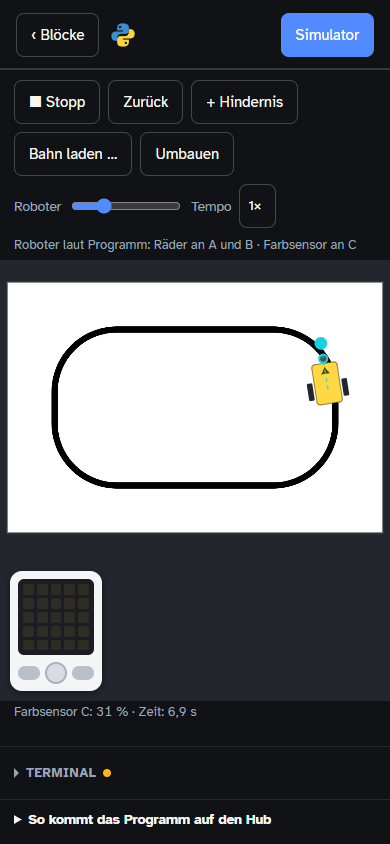
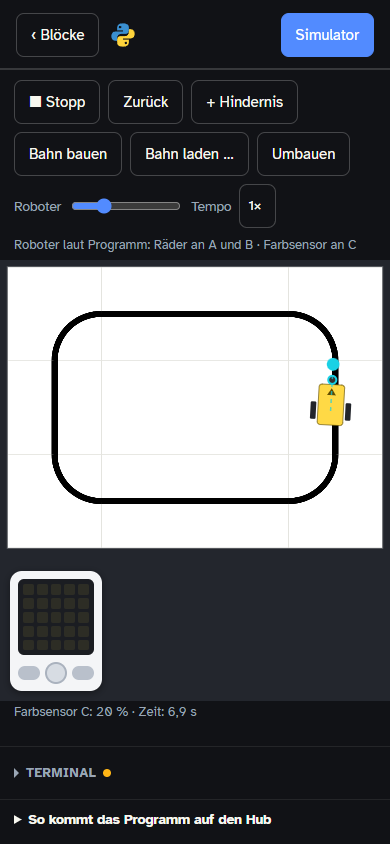
docs: Bahn bauen in README, Roadmap und Changelog, neue Bilder
Claude-Session: https://claude.ai/code/session_01PviZb3Q8FPaRScTPKtzbYN

diff --git a/README.md b/README.md
@@ -70,15 +70,21 @@ aussieht. So wird der Umstieg von Blöcken auf Python ein Schritt, den man mitle
 
 Der **Simulator** lässt das Programm auf einer Bahn im Fenster laufen. Der Roboter entsteht aus
 dem Programm – Räder, bis zu vier Farbsensoren, Abstandssensor, Kraftsensor – und fährt über
-eine Bahn mit schwarzer Linie: den mitgelieferten Rundkurs oder ein eigenes Bild. Hindernisse
-lassen sich frei setzen, der Hub zeigt Lichtmatrix und Tasten. Beim »Umbauen« lassen sich die
-Sensoren versetzen und drehen, mit Raster und Symmetrie. Mehr dazu unter
-[Programme ohne Roboter ausprobieren](#programme-ohne-roboter-ausprobieren).
+eine Bahn mit schwarzer Linie. Die Bahn baut man selbst **aus Platten wie bei RoboCup Junior
+Rescue Line**: Gerade, Kurve, Abzweig, Kreuzung, Lücke und mehr, mit grünen Punkten an den
+Kreuzungen. Hindernisse lassen sich frei setzen, der Hub zeigt Lichtmatrix und Tasten. Beim
+»Umbauen« lassen sich die Sensoren versetzen und drehen, mit Raster und Symmetrie. Mehr dazu
+unter [Programme ohne Roboter ausprobieren](#programme-ohne-roboter-ausprobieren).
 
-| Simulator | Umbauen |
+| Simulator |
+|:---:|
+| <img src="docs/bilder/simulator.png" alt="Simulator: links ein Linienfolger aus Blöcken, rechts der Roboter auf einer Bahn aus Platten mit zwei grünen Punkten – er hält vor einem Hindernis, der Kegel des Abstandssensors ist rot" width="700"> |
+| Der Linienfolger hält vor dem Hindernis; der Hub zeigt das Herz aus dem Programm. |
+
+| Bahn bauen | Umbauen |
 |:---:|:---:|
-| <img src="docs/bilder/simulator.png" alt="Simulator: links ein Linienfolger aus Blöcken, rechts der Roboter auf dem Rundkurs – er hält vor einem Hindernis, der Kegel des Abstandssensors ist rot" width="560"> | <img src="docs/bilder/simulator-umbauen.png" alt="Umbauen: der Roboter groß auf einem Raster, zwei Farbsensoren spiegelbildlich, einer mit Drehknopf" width="270"> |
-| Der Linienfolger hält vor dem Hindernis; der Hub zeigt das Herz aus dem Programm. | Sensoren versetzen und drehen. |
+| <img src="docs/bilder/bahn-bauen.png" alt="Bahn bauen: oben die Platten zur Auswahl, darunter die Bahn auf einem Raster, an zwei Abzweigen grüne Punkte" width="330"> | <img src="docs/bilder/simulator-umbauen.png" alt="Umbauen: der Roboter groß auf einem Raster, zwei Farbsensoren spiegelbildlich, einer mit Drehknopf" width="330"> |
+| Platten legen und drehen, grüne Punkte in die Ecken der Kreuzungen. | Sensoren versetzen und drehen. |
 
 ### Mit dem Hub
 
@@ -216,10 +222,18 @@ dran ist, ist markiert, Ausgaben stehen im Terminal.
   Programm abfragt, sitzt vorn (höchstens vier), dazu Abstandssensor und Kraftsensor. Wer ohne
   »Fahrbasis einrichten« zwei einzelne Motoren dreht, fährt mit diesen – der linke ist dabei
   gespiegelt eingebaut wie am üblichen Roboter.
-- **Die Bahn** ist ein Rundkurs mit schwarzer Linie; »Bahn laden …« nimmt ein eigenes Bild von
-  oben. Der Regler »Roboter« stellt ein, wie groß der Roboter darauf ist. Roboter und Hindernisse
-  lassen sich ziehen, der Roboter am Punkt vor ihm drehen, ein Hindernis an seiner Ecke größer
-  und kleiner ziehen; ein Doppelklick räumt es weg.
+- **Die Bahn** besteht aus Platten von 30 cm, wie bei RoboCup Junior Rescue Line; am Anfang liegt
+  ein Rundkurs. »Bahn bauen« zeigt die Platten zur Auswahl – Gerade, Kurve, Ecke, Abzweig,
+  Kreuzung, Lücke, Zickzack, Schlangenlinie, Kreisel, Linienende und die rote Ziellinie: Ein Tipp
+  auf ein Feld legt die gewählte Platte, noch ein Tipp dreht sie. Mit dem **grünen Punkt** tippt
+  man an einem Abzweig oder einer Kreuzung in die Ecke, in die er soll – der Farbsensor sieht dort
+  Grün und an der Ziellinie Rot. Die Bahn darf zwei bis acht Platten breit und zwei bis sechs hoch
+  sein; es gibt Vorlagen, und sie lässt sich als Datei speichern und weitergeben. Sie bleibt
+  gemerkt, samt Hindernissen und dem Platz des Roboters.
+- **Ein eigenes Bild** geht auch: »Bahn laden …« nimmt ein Foto oder eine Zeichnung von oben. Der
+  Regler »Roboter« stellt ein, wie groß der Roboter darauf ist.
+- **Roboter und Hindernisse** lassen sich ziehen, der Roboter am Punkt vor ihm drehen, ein
+  Hindernis an seiner Ecke größer und kleiner ziehen; ein Doppelklick räumt es weg.
 - **Der Hub** neben der Bahn zeigt die Lichtmatrix und das Statuslicht, seine Tasten lassen sich
   drücken. Ein Doppelklick auf ihn zeigt nur noch den Hub.
 - **Umbauen** zeigt den Roboter groß. Sensoren lassen sich versetzen und am Knopf drehen: auf
@@ -231,8 +245,9 @@ dran ist, ist markiert, Ausgaben stehen im Terminal.
 Der Simulator führt die Blöcke aus, nicht den Python-Code. Blöcke aus Erweiterungen, den
 Xbox-Controller und die LEGO-Fernbedienung überspringt er (das Steuerfeld von Blockwerk geht).
 Er taugt, um die Logik eines Programms zu prüfen – Kreuzungen, Lücken, Halt vor der Wand –, nicht
-zum Feinabstimmen eines Reglers: Der Roboter fährt ohne Anlauf und ohne Messfehler. Was noch
-fehlt, steht in der [Roadmap](ROADMAP.md) unter Meilenstein 10.
+zum Feinabstimmen eines Reglers: Der Roboter fährt ohne Anlauf und ohne Messfehler. Die Bahn ist
+flach – Rampe, Wippe und der Raum mit den Opfern fehlen. Was sonst noch fehlt, steht in der
+[Roadmap](ROADMAP.md) unter Meilenstein 10.
 
 ### Hub am USB-Kabel
 

diff --git a/ROADMAP.md b/ROADMAP.md
@@ -16,7 +16,7 @@ dabeisteht.
 | 7 | Sprachumschaltung Deutsch/Englisch | offen |
 | 8 | Hub am USB-Kabel | 🟢 läuft am echten Hub unter macOS (Beta-Firmware 4.1.0b5); Windows, Linux und Android stehen aus |
 | 9 | Erweiterungen: eigene Blöcke mit eigenem Python | 🟢 umgesetzt; ein Modul lief am echten Hub (Bluetooth und Kabel) |
-| 10 | Simulation des Roboters | 🟡 läuft im Browser: fahren, Linie, Hindernisse, Hub, Sensoren umbauen; an echten Tablets nicht erprobt, Bahn-Editor offen |
+| 10 | Simulation des Roboters | 🟡 läuft im Browser: fahren, Linie, Hindernisse, Hub, Sensoren umbauen, Bahn aus Rescue-Line-Platten bauen; an echten Tablets nicht erprobt |
 | 11 | App für Android (Tablets und Handys) | 🟡 umgesetzt; im Emulator geprüft, Bluetooth lief an einem echten Handy, das Kabel steht aus. iPad zurückgestellt |
 
 ---
@@ -394,9 +394,15 @@ ohne DOM, geprüft in `tests/sim.test.ts`.
   Farbsensor sitzt vorn (höchstens vier), dazu Abstandssensor und Kraftsensor. Ohne Fahrbasis
   sind zwei einzelne Motoren die Räder – der linke gespiegelt, wie üblich eingebaut. Weitere
   Motoren zeigen eine Scheibe mit Zeiger.
-- **Bahn und Hindernisse** (`world.ts`): Die Bahn ist ein Bild von oben, ein Rundkurs ist dabei,
-  ein eigenes Bild lässt sich laden; die Größe des Roboters darauf ist einstellbar. Reflexion und
-  Farbe liest der Sensor aus dem Bild. Hindernisse sind Rechtecke zum Setzen, Ziehen und
+- **Bahn aus Platten** (`tiles.ts`, `trackEditor.ts`): »Bahn bauen« legt die Bahn aus Platten von
+  30 cm zusammen, wie bei RoboCup Junior Rescue Line – Gerade, Kurve, Ecke, Abzweig, Kreuzung,
+  Lücke, Zickzack, Schlangenlinie, Kreisel, Linienende, rote Ziellinie. Ein Tipp legt eine Platte,
+  noch einer dreht sie; an Abzweig und Kreuzung kommen grüne Punkte in die Ecken. Zwei bis acht
+  Platten breit, zwei bis sechs hoch; Vorlagen, Speichern und Öffnen als Datei. Die Bahn bleibt
+  gemerkt, samt Hindernissen und dem Platz des Roboters.
+- **Bahn und Hindernisse** (`world.ts`): Gerechnet wird auf einem Bild der Bahn von oben – dem der
+  Platten oder einem eigenen, das sich laden lässt; die Größe des Roboters darauf ist einstellbar.
+  Reflexion und Farbe liest der Sensor aus dem Bild. Hindernisse sind Rechtecke zum Setzen, Ziehen und
   Vergrößern; der Abstandssensor sieht, was in seinem Kegel liegt, der Kraftsensor drückt am
   Hindernis oder per Knopf. Der Roboter fährt an ein Hindernis heran, nicht hinein.
 - **Ausführen** (`runner.ts`): Der Simulator läuft die Blöcke selbst ab, in simulierter Zeit –
@@ -424,8 +430,9 @@ echten Roboter verglichen.
 
 **Offen:**
 - Rampen beim Anfahren und Bremsen, Messfehler der Sensoren.
-- Bahn und Hindernisse über das Neuladen hinweg merken; eine Spur, die zeigt, wo der Roboter fuhr.
-- Bahn-Editor mit Rescue-Line-Kacheln (Stufe 2 des Entwurfs).
+- Eine Spur, die zeigt, wo der Roboter fuhr.
+- Rescue Line über die flache Bahn hinaus: Rampe, Wippe, Bodenschwellen, der Raum mit den Opfern
+  und der silberne Streifen davor.
 - Ein eigenes einklappbares Fenster statt des Platzes im Codebereich; eine Seite in der Hilfe.
 **Ursprünglicher Entwurf:**
 - Echtes Python im Browser (MicroPython als WebAssembly) mit einem nachgebauten

diff --git a/CHANGELOG.md b/CHANGELOG.md
@@ -25,10 +25,17 @@ Programmen (und einem Git-Tag wie `v0.26.0`) fasst dann zusammen, was seit dem v
     Farbsensor sitzt vorn (höchstens vier), dazu Abstandssensor und Kraftsensor. Ohne »Fahrbasis
     einrichten« sind zwei einzelne Motoren die Räder – der linke gespiegelt, wie er üblich
     eingebaut ist. Weitere Motoren zeigen eine Scheibe mit Zeiger.
-  - **Bahn und Hindernisse:** Ein Rundkurs mit schwarzer Linie ist dabei, »Bahn laden …« nimmt ein
-    eigenes Bild; wie groß der Roboter darauf ist, stellt ein Regler ein. Hindernisse lassen sich
-    setzen, ziehen und in der Größe ändern. Der Abstandssensor sieht, was in seinem Kegel liegt,
-    der Kraftsensor drückt am Hindernis oder per Knopf.
+  - **Bahn bauen, wie bei RoboCup Junior Rescue Line:** Die Bahn besteht aus Platten von 30 cm –
+    Gerade, Kurve, Ecke, Abzweig, Kreuzung, Lücke, Zickzack, Schlangenlinie, Kreisel, Linienende
+    und die rote Ziellinie. Ein Tipp auf ein Feld legt die gewählte Platte, noch ein Tipp dreht
+    sie. An Abzweig und Kreuzung kommen **grüne Punkte** in die Ecken, die der Farbsensor als Grün
+    sieht. Zwei bis acht Platten breit, zwei bis sechs hoch; es gibt Vorlagen, und die Bahn lässt
+    sich als Datei speichern und weitergeben. Am Anfang liegt ein Rundkurs.
+  - **Eigenes Bild und Hindernisse:** »Bahn laden …« nimmt stattdessen ein eigenes Bild; wie groß
+    der Roboter darauf ist, stellt ein Regler ein. Hindernisse lassen sich setzen, ziehen und in
+    der Größe ändern. Der Abstandssensor sieht, was in seinem Kegel liegt, der Kraftsensor drückt
+    am Hindernis oder per Knopf. Neben der Reflexion steht, wenn der Farbsensor Grün, Rot, Blau
+    oder Gelb sieht.
   - **Der Hub** liegt neben der Bahn: Lichtmatrix (Bild, Muster, Zahl, Text), Statuslicht und
     Tasten zum Drücken; ein Doppelklick zeigt nur noch den Hub. Der Piepton ist zu hören, das
     Steuerfeld steuert auch den simulierten Roboter, das Tempo reicht von ¼× bis 4×.
@@ -40,7 +47,8 @@ Programmen (und einem Git-Tag wie `v0.26.0`) fasst dann zusammen, was seit dem v
   - **Grenzen:** Der Simulator führt die Blöcke aus, nicht den Python-Code; Blöcke aus
     Erweiterungen, Xbox-Controller und LEGO-Fernbedienung überspringt er. Er taugt für die Logik
     eines Programms, nicht zum Feinabstimmen eines Reglers – der Roboter fährt ohne Anlauf und
-    ohne Messfehler. Bahn und Hindernisse sind nach dem Neuladen wieder die vom Anfang.
+    ohne Messfehler. Die Bahn ist flach: Rampe, Wippe und der Raum mit den Opfern fehlen. Bahn,
+    Hindernisse und der Platz des Roboters bleiben gemerkt – ein geladenes Bild nicht.
 - Neu: **Mehrere Blöcke auf einmal** – mit gedrückter Umschalttaste Blöcke anklicken oder auf der
   freien Fläche einen Rahmen aufziehen; bei Bedienung mit dem Finger schaltet ein Knopf an der
   Arbeitsfläche dasselbe ein. Strg+C, Strg+X, Strg+V und Entf gelten dann der ganzen Auswahl, eine
